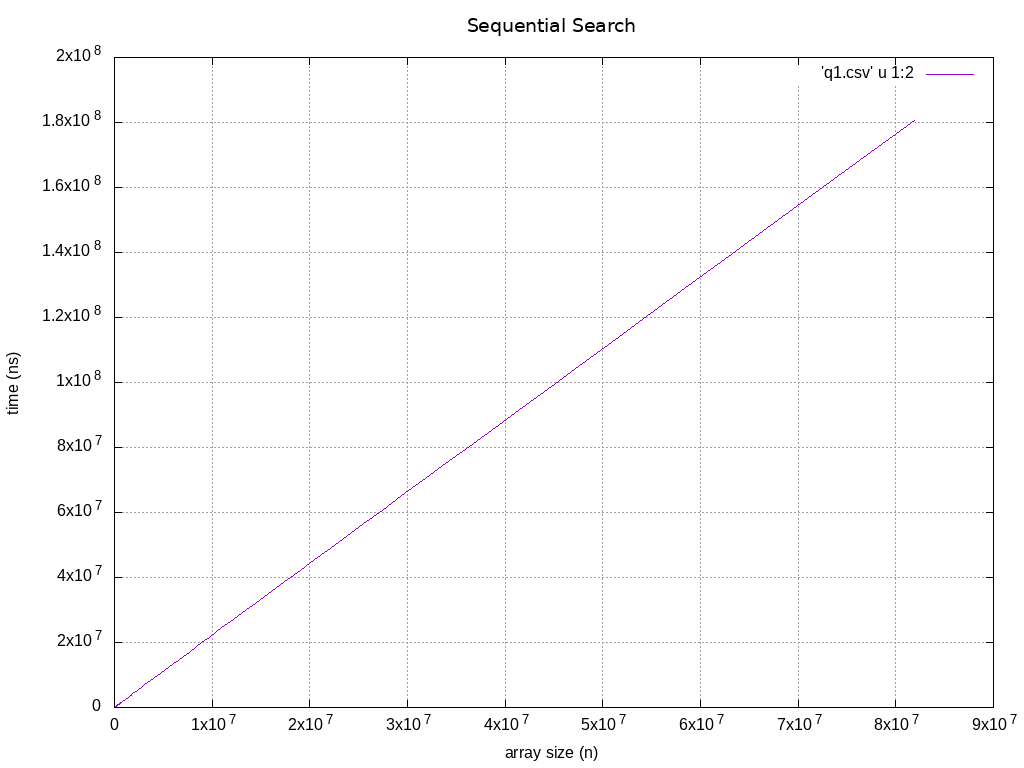
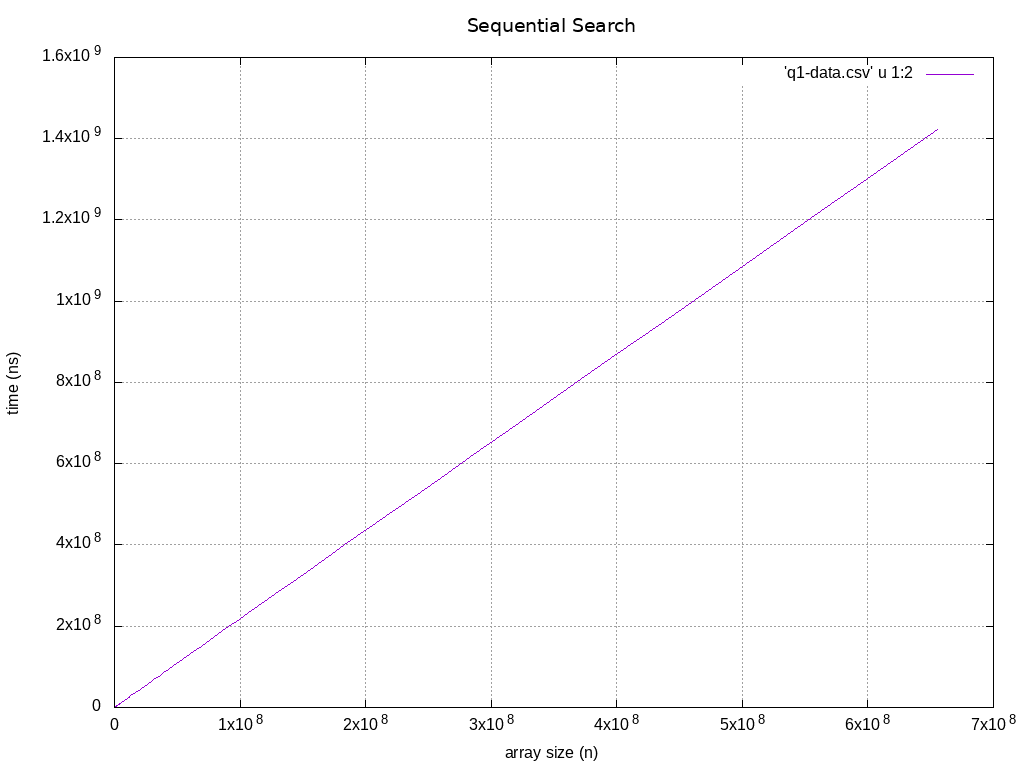
Restructure question 1

diff --git a/design-and-analysis-of-algorithms/assg-1-search/q1-search-sequential.c b/design-and-analysis-of-algorithms/assg-1-search/q1-search-sequential.c
@@ -3,41 +3,41 @@
 #include <time.h>
 
 
+long int getSearchSequentialTime(int n) {
+	int *arr = (int *) malloc(sizeof(int) * n), key = -1;
+	for (int i = 0; i < n; i++)
+		arr[i] = i;
+	
+	clock_t start, end;
+	start = clock();
+
+	//============================
+	int i = 1;
+
+	check:
+	if (key == arr[i - 1])
+		goto exit;
+	
+	i = i + 1;
+
+	if (i <= n)
+		goto check;
+	//============================
+
+	exit:
+	end = clock();
+	
+	double time = ((double) (end - start)) / CLOCKS_PER_SEC;
+	return (time * 1000000000);
+}
+
 int main(int argc, char *argv) {
 	FILE *fp = fopen("q1-data.csv", "w");
-	long int n = 10000, ti;
-	clock_t start, end;
+	long int n = 10000;
 	
-	while (n <= 100000000) {
-		int *arr = (int *) malloc(sizeof(int) * n), key = -1;
-		for (int i = 0; i < n; i++)
-			arr[i] = i;
-		
-		start = clock();
-
-		//============================
-		int i = 1;
-
-		check:
-		if (key == arr[i - 1])
-			goto exit;
-		
-		i = i + 1;
-
-		if (i <= n)
-			goto check;
-		//============================
-
-		exit:
-		end = clock();
-		
-		double time = ((double) (end - start)) / CLOCKS_PER_SEC;
-		ti = time * 1000000000;
-		fprintf(fp, "%ld,%ld\n", n, ti);
-
-
-		n <<= 1;
-	}
+	do {
+		fprintf(fp, "%ld,%ld\n", n, getSearchSequentialTime(n));
+	} while((n <<= 1) < 1000000000);
 	
 	
 	fclose(fp);
